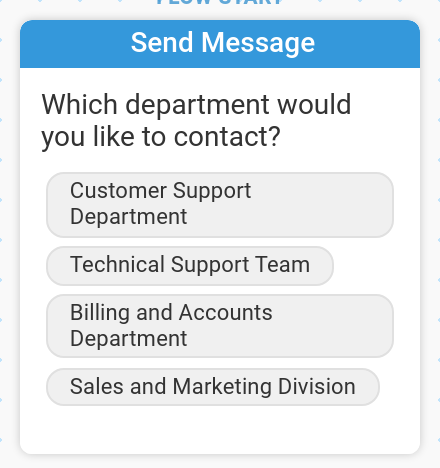
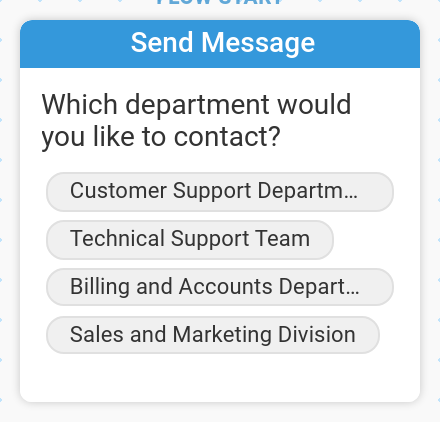
Truncate and ellipsize quick replies on canvas nodes (#858)
* Truncate and ellipsize quick replies on canvas nodes

Use flexbox layout for quick replies so they grow to fill available
space while truncating long text with ellipsis. A flex-basis of 5em
encourages fitting multiple pills per line.

* Format NodeEditor, split_by_subflow, and utils

* Don't grow quick replies beyond their natural width

* Truncate quick replies in simulator and add edge padding

* Restore flaky simulator truth screenshots from main

---------

diff --git a/src/flow/NodeEditor.ts b/src/flow/NodeEditor.ts
@@ -388,9 +388,7 @@ export class NodeEditor extends RapidElement {
 
       .accordion-toggle-icon {
         color: #999;
-        transition:
-          transform 0.2s ease,
-          opacity 0.3s ease;
+        transition: transform 0.2s ease, opacity 0.3s ease;
       }
 
       .accordion-toggle-icon.expanded {
@@ -2194,18 +2192,20 @@ export class NodeEditor extends RapidElement {
                             class="accordion-checkmark-icon"
                           ></temba-icon>`
                         : showBubble
-                          ? html`<div
-                              class="accordion-count-bubble ${!showBubble
-                                ? 'hidden'
-                                : ''}"
-                            >
-                              ${valueCount}
-                            </div>`
-                          : ''}
+                        ? html`<div
+                            class="accordion-count-bubble ${!showBubble
+                              ? 'hidden'
+                              : ''}"
+                          >
+                            ${valueCount}
+                          </div>`
+                        : ''}
                     </div>`}
               </div>
               <div
-                class="accordion-content ${isCollapsed ? 'collapsed' : 'expanded'}"
+                class="accordion-content ${isCollapsed
+                  ? 'collapsed'
+                  : 'expanded'}"
               >
                 ${section.items.map((item) =>
                   this.renderLayoutItem(item, config, renderedFields)

diff --git a/src/flow/CanvasNode.ts b/src/flow/CanvasNode.ts
@@ -295,6 +295,8 @@ export class CanvasNode extends RapidElement {
 
       .quick-replies {
         margin-top: 0.5em;
+        display: flex;
+        flex-wrap: wrap;
       }
 
       .quick-reply {
@@ -302,9 +304,14 @@ export class CanvasNode extends RapidElement {
         border: 1px solid #e0e0e0;
         border-radius: calc(var(--curvature) * 1.5);
         padding: 0.2em 1em;
-        display: inline-block;
         font-size: 0.8em;
         margin: 0.2em;
+        flex: 0 1 auto;
+        min-width: 0;
+        max-width: 100%;
+        overflow: hidden;
+        text-overflow: ellipsis;
+        white-space: nowrap;
       }
 
       .router-section {

diff --git a/src/simulator/Simulator.ts b/src/simulator/Simulator.ts
@@ -582,6 +582,7 @@ export class Simulator extends RapidElement {
         flex-wrap: wrap;
         justify-content: center;
         gap: 6px;
+        padding: 0 12px;
         z-index: 9;
       }
 
@@ -594,7 +595,10 @@ export class Simulator extends RapidElement {
         font-size: 11px;
         cursor: pointer;
         transition: all 0.2s ease;
-        flex-shrink: 0;
+        min-width: 0;
+        overflow: hidden;
+        text-overflow: ellipsis;
+        white-space: nowrap;
       }
 
       .quick-reply-btn:hover:not(:disabled) {

diff --git a/src/flow/utils.ts b/src/flow/utils.ts
@@ -162,9 +162,7 @@ export const renderFlowLinks = (flows: NamedObject[], icon?: string) => {
     itemElements.push(html`<div
       style="display:flex;items-align:center;margin-top:0.2em;"
     >
-      ${icon
-        ? html`<div style="margin-right:0.4em; width: 1em;"></div>`
-        : null}
+      ${icon ? html`<div style="margin-right:0.4em; width: 1em;"></div>` : null}
       <div style="font-size:0.8em">+${remainingCount} more</div>
     </div>`);
   }

diff --git a/src/flow/nodes/split_by_subflow.ts b/src/flow/nodes/split_by_subflow.ts
@@ -33,7 +33,9 @@ export const split_by_subflow: NodeConfig = {
     ) as any;
     return html`
       <div class="body">
-        ${enterFlowAction?.flow ? renderFlowLinks([enterFlowAction.flow], 'flow') : null}
+        ${enterFlowAction?.flow
+          ? renderFlowLinks([enterFlowAction.flow], 'flow')
+          : null}
       </div>
     `;
   },
